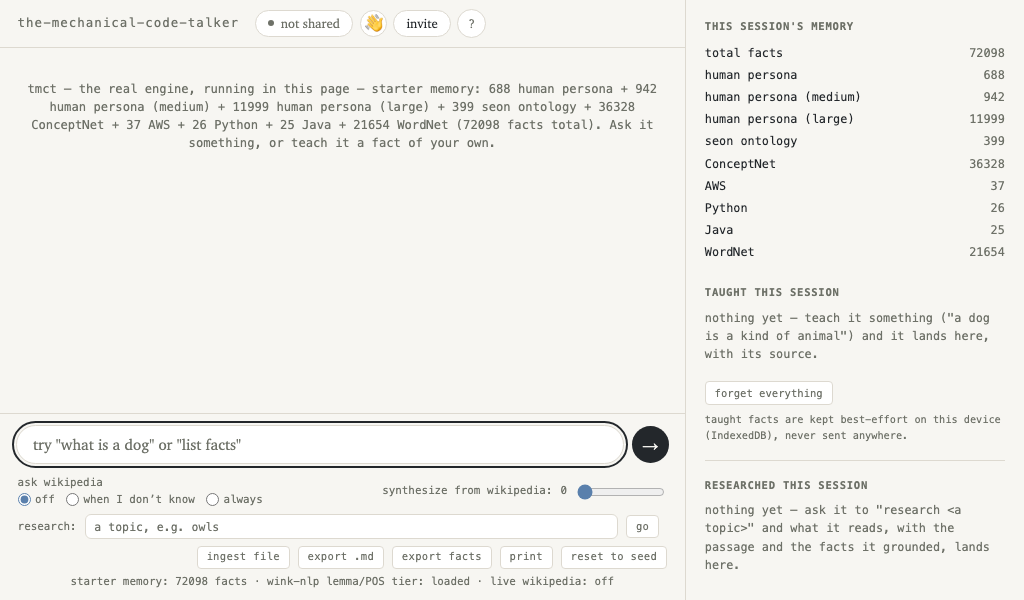
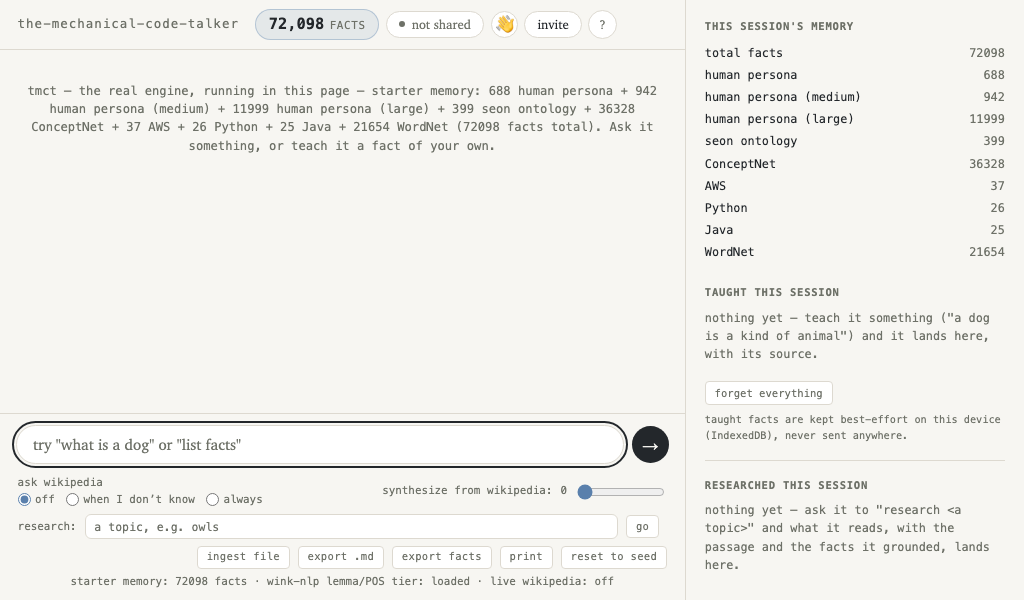
chore: roll minor version to 4.1.0
Covers this session's PLAN_TOOL_SURFACE.md work: phases 1-9 (the shared-
library sweep, phraseForRelation, Gap B's structured tool result, the
code-explorer proof, Gap A's memory-graph binding, the spider-fly
world-relation ask route, mood-becomes-a-fact, the tmct_sprite tool, and
sprites.html's chat interceptions), the mud room rebind (p2p-room.mjs's
rebind() plus adventure.mjs's epoch-aware fold), the sprite catalog's
5-angle facing + moving-pose expansion (987 template files) with its
turntable/moving-toggle animations, the service-worker cache-bust and
fact-count pill e2e coverage, and PLAN_FACT.md's supersession design.

npm test: 5268/5268.

Changed region(s): [[0.0312, 0.12, 0.625, 0.27], [0.0, 0.0, 0.6562, 0.09]]

diff --git a/public/index.html b/public/index.html
@@ -802,7 +802,7 @@ await runChat({
       <a href="https://gitlab.com/polycode-projects/the-mechanical-code-talker">repository</a>
       &middot;
       <a href="https://www.npmjs.com/package/@polycode-projects/the-mechanical-code-talker">npm</a>
-      &middot; this page documents <span id="pkg-version">4.0.1</span>
+      &middot; this page documents <span id="pkg-version">4.1.0</span>
       &middot; &copy; Polycode Limited.</p>
   </footer>
 </main>
